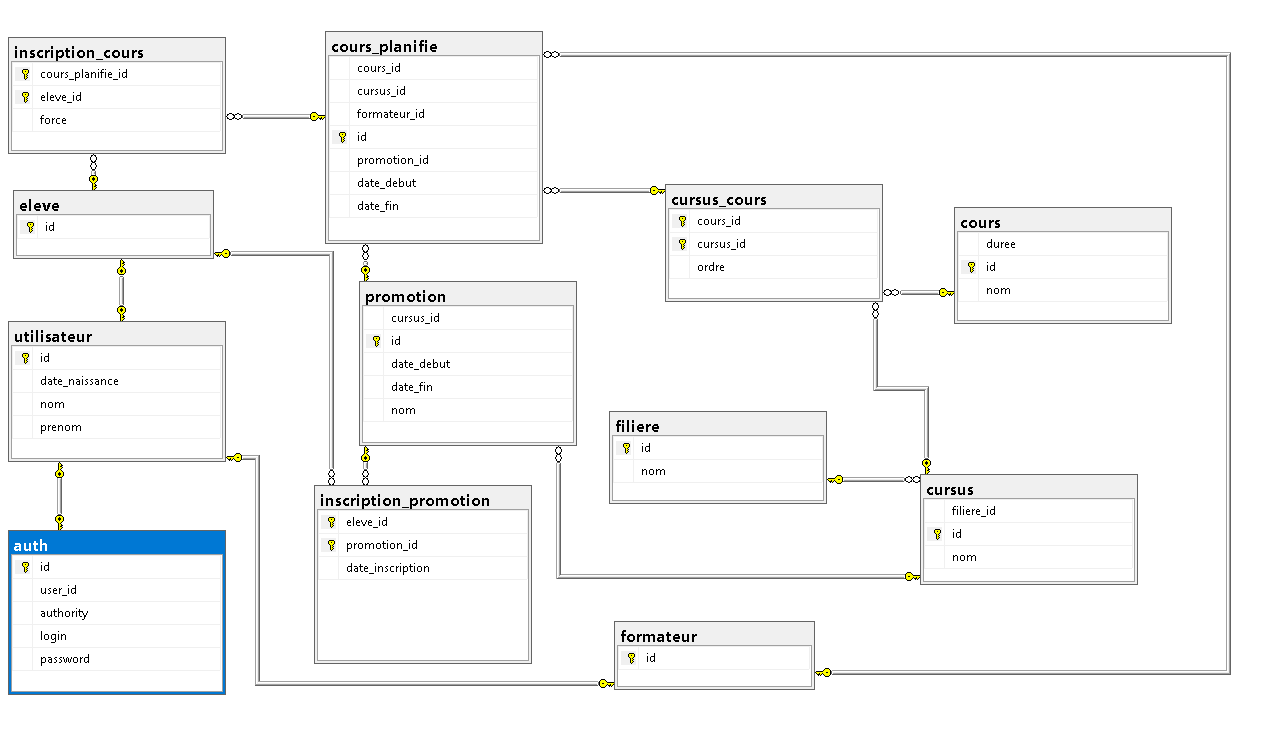
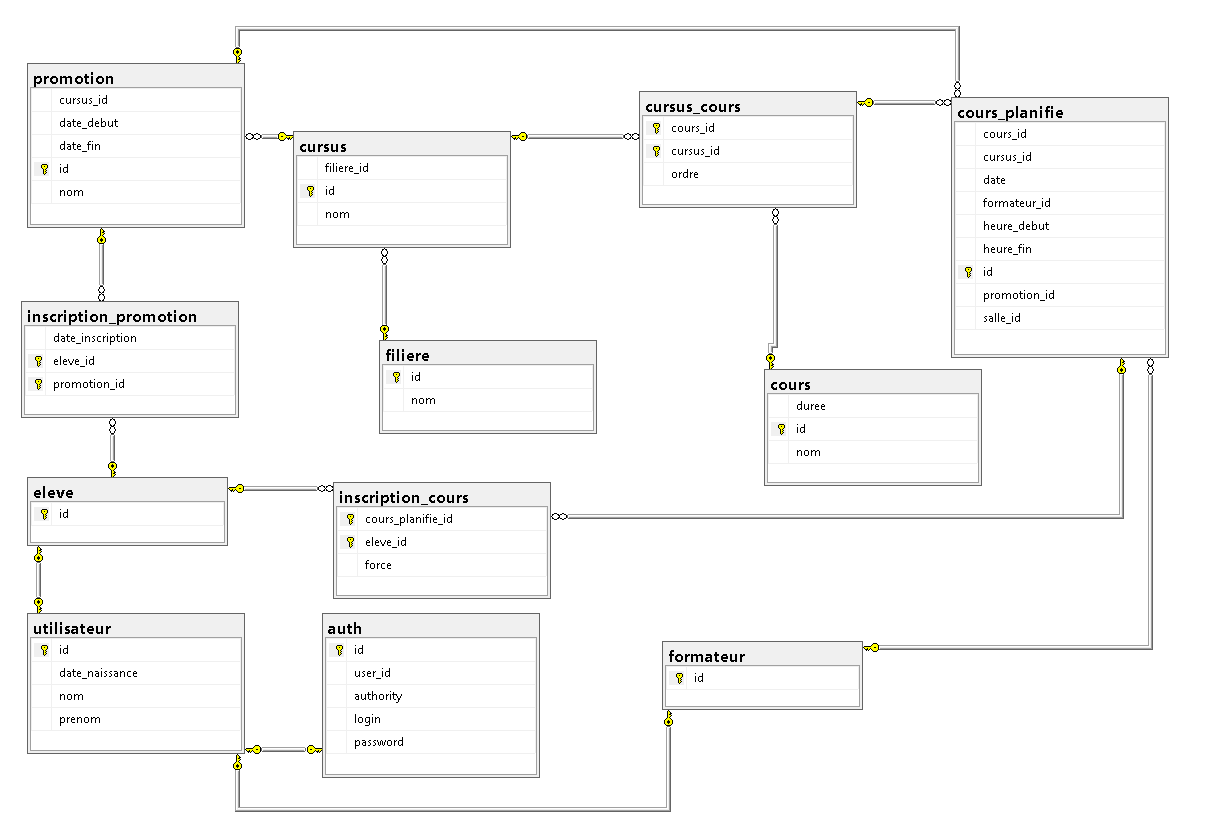
Modif route ath /api/auth/login ajout post filiere, cursus

diff --git a/Backend/classeo/src/main/java/fr/eni/classeo/bll/CursusServiceImpl.java b/Backend/classeo/src/main/java/fr/eni/classeo/bll/CursusServiceImpl.java
@@ -3,6 +3,8 @@ package fr.eni.classeo.bll;
 import fr.eni.classeo.bo.Cursus;
 import fr.eni.classeo.bo.Filiere;
 import fr.eni.classeo.dal.CursusRepository;
+import fr.eni.classeo.dal.FiliereRepository;
+import fr.eni.classeo.dto.CursusPostDto;
 import lombok.AllArgsConstructor;
 import org.springframework.stereotype.Service;
 
@@ -14,6 +16,8 @@ import java.util.Optional;
 public class CursusServiceImpl implements CursusService {
 
     private CursusRepository cursusRepository;
+
+    private FiliereRepository filiereRepository;
 
     @Override
     public List<Cursus> listeCursus() {
@@ -30,5 +34,26 @@ public class CursusServiceImpl implements CursusService {
             return cursus.get();
         }
         throw new RuntimeException("Aucun cursus ne correspond");
+    }
+
+    @Override
+    public void addCursus(CursusPostDto cursus) {
+        if(cursus == null){
+            throw new RuntimeException("Aucun cursus n'est renseigné'");
+        }
+        if(cursus.getFiliereId() == null){
+            throw new RuntimeException("Filiere n'est pas renseigné'");
+        }
+        Optional<Filiere> filiere = filiereRepository.findById(cursus.getFiliereId());
+
+        if(filiere.isPresent()){
+            Cursus cursusToSave = Cursus.builder()
+                    .nom(cursus.getNom())
+                    .filiere(filiere.get())
+                    .build();
+            cursusRepository.save(cursusToSave);
+        }else{
+            throw new RuntimeException("la filiere n'existe pas");
+        }
     }
 }

diff --git a/Backend/classeo/src/main/java/fr/eni/classeo/controller/CursusController.java b/Backend/classeo/src/main/java/fr/eni/classeo/controller/CursusController.java
@@ -3,13 +3,11 @@ package fr.eni.classeo.controller;
 import fr.eni.classeo.bll.CursusService;
 import fr.eni.classeo.bo.Cursus;
 import fr.eni.classeo.bo.Filiere;
+import fr.eni.classeo.dto.CursusPostDto;
 import lombok.AllArgsConstructor;
 import org.springframework.http.HttpStatus;
 import org.springframework.http.ResponseEntity;
-import org.springframework.web.bind.annotation.GetMapping;
-import org.springframework.web.bind.annotation.PathVariable;
-import org.springframework.web.bind.annotation.RequestMapping;
-import org.springframework.web.bind.annotation.RestController;
+import org.springframework.web.bind.annotation.*;
 
 import java.util.List;
 
@@ -39,6 +37,17 @@ public class CursusController {
             return ResponseEntity.ok(cursus);
         } catch (RuntimeException e) {
             return ResponseEntity.status(HttpStatus.NOT_FOUND).body(e.getMessage());
+        }
+    }
+
+    @PostMapping
+    public ResponseEntity<?> addCursus(@RequestBody CursusPostDto cursus) {
+        try {
+
+            cursusService.addCursus(cursus);
+            return ResponseEntity.ok(cursus);
+        }catch(RuntimeException e) {
+            return ResponseEntity.status(HttpStatus.NOT_ACCEPTABLE).body(e.getMessage());
         }
     }
 }

diff --git a/Backend/classeo/src/main/java/fr/eni/classeo/controller/FiliereController.java b/Backend/classeo/src/main/java/fr/eni/classeo/controller/FiliereController.java
@@ -2,13 +2,11 @@ package fr.eni.classeo.controller;
 
 import fr.eni.classeo.bll.FiliereService;
 import fr.eni.classeo.bo.Filiere;
+import jakarta.validation.Valid;
 import lombok.AllArgsConstructor;
 import org.springframework.http.HttpStatus;
 import org.springframework.http.ResponseEntity;
-import org.springframework.web.bind.annotation.GetMapping;
-import org.springframework.web.bind.annotation.PathVariable;
-import org.springframework.web.bind.annotation.RequestMapping;
-import org.springframework.web.bind.annotation.RestController;
+import org.springframework.web.bind.annotation.*;
 
 import java.util.List;
 
@@ -38,6 +36,16 @@ public class FiliereController {
             return ResponseEntity.ok(filiere);
         } catch (RuntimeException e) {
             return ResponseEntity.status(HttpStatus.NOT_FOUND).body(e.getMessage());
+        }
+    }
+
+    @PostMapping
+    public ResponseEntity<?> addFiliere(@Valid @RequestBody Filiere filiere){
+        try {
+            filiereService.addFiliere(filiere);
+            return ResponseEntity.ok(filiere);
+        }catch (RuntimeException e){
+            return ResponseEntity.status(HttpStatus.NOT_ACCEPTABLE).body(e.getMessage());
         }
     }
 }

diff --git a/Backend/classeo/src/test/java/fr/eni/classeo/association/TestManyToOneCoursPlanifie.java b/Backend/classeo/src/test/java/fr/eni/classeo/association/TestManyToOneCoursPlanifie.java
@@ -32,11 +32,10 @@ public class TestManyToOneCoursPlanifie {
 
         //Formateur
        formateur = Formateur.builder()
-                .login("gg@mail.com")
-                .password("Pass")
+
                 .nom("Magax")
                 .prenom("Gerard")
-                .authority("FORMATEUR")
+
                 .build();
         testEntityManager.persist(formateur);
 
@@ -88,7 +87,7 @@ public class TestManyToOneCoursPlanifie {
         CoursPlanifie result = coursPlanifieRepository.findById(cpDb.getId()).orElseThrow();
 
         assertThat(result.getFormateur()).isNotNull();
-        assertThat(result.getFormateur().getLogin()).isEqualTo("gg@mail.com");
+        assertThat(result.getFormateur().getNom()).isEqualTo("Magax");
         assertThat(result.getPromotion()).isNotNull();
         assertThat(result.getPromotion().getNom()).isEqualTo("Mai26");
         assertThat(result.getCursusCours()).isNotNull();

diff --git a/Backend/classeo/src/main/java/fr/eni/classeo/controller/CoursController.java b/Backend/classeo/src/main/java/fr/eni/classeo/controller/CoursController.java
@@ -5,10 +5,7 @@ import fr.eni.classeo.bo.Cours;
 import lombok.AllArgsConstructor;
 import org.springframework.http.HttpStatus;
 import org.springframework.http.ResponseEntity;
-import org.springframework.web.bind.annotation.GetMapping;
-import org.springframework.web.bind.annotation.PathVariable;
-import org.springframework.web.bind.annotation.RequestMapping;
-import org.springframework.web.bind.annotation.RestController;
+import org.springframework.web.bind.annotation.*;
 
 @AllArgsConstructor
 @RestController
@@ -39,4 +36,6 @@ public class CoursController {
     public ResponseEntity<?> getSeancesByCoursId(@PathVariable Integer coursId){
         return ResponseEntity.ok(coursService.listeCoursPlanifieParCoursId(coursId));
     }
+
+
 }

diff --git a/Backend/classeo/src/main/java/fr/eni/classeo/security/SecurityConfig.java b/Backend/classeo/src/main/java/fr/eni/classeo/security/SecurityConfig.java
@@ -1,5 +1,6 @@
 package fr.eni.classeo.security;
 
+import fr.eni.classeo.service.CustomUserDetailsService;
 import org.springframework.context.annotation.Bean;
 import org.springframework.context.annotation.Configuration;
 import org.springframework.security.authentication.AuthenticationManager;
@@ -52,7 +53,7 @@ public class SecurityConfig {
         http
                 .csrf(csrf -> csrf.disable())
                 .authorizeHttpRequests(auth -> auth
-                        .requestMatchers("/auth/**").permitAll()
+                        .requestMatchers("/api/auth/**").permitAll()
                         .anyRequest().authenticated()
                 )
                 .addFilterBefore(

diff --git a/Backend/classeo/src/main/java/fr/eni/classeo/security/JwtAuthenticationFilter.java b/Backend/classeo/src/main/java/fr/eni/classeo/security/JwtAuthenticationFilter.java
@@ -1,5 +1,6 @@
 package fr.eni.classeo.security;
 
+import fr.eni.classeo.service.CustomUserDetailsService;
 import jakarta.servlet.FilterChain;
 import jakarta.servlet.ServletException;
 import jakarta.servlet.http.HttpServletRequest;
@@ -10,6 +11,7 @@ import org.springframework.security.core.userdetails.UserDetails;
 import org.springframework.security.web.authentication.WebAuthenticationDetailsSource;
 import org.springframework.stereotype.Component;
 import org.springframework.web.filter.OncePerRequestFilter;
+
 
 import java.io.IOException;
 

diff --git a/Backend/classeo/src/main/java/fr/eni/classeo/bll/FiliereServiceImpl.java b/Backend/classeo/src/main/java/fr/eni/classeo/bll/FiliereServiceImpl.java
@@ -30,4 +30,16 @@ public class FiliereServiceImpl implements FiliereService {
         }
         throw new RuntimeException("Aucune filiere ne correspond");
     }
+
+    @Override
+    public void addFiliere(Filiere filiere) {
+        if(filiere == null){
+            throw new RuntimeException("Filiere n'est pas renseignée'");
+        }
+        try {
+            filiereRepository.save(filiere);
+        }catch(RuntimeException e){
+            throw  new RuntimeException("impossible de sauver"+ filiere.toString());
+        }
+    }
 }

diff --git a/Backend/classeo/src/main/java/fr/eni/classeo/dto/CursusPostDto.java b/Backend/classeo/src/main/java/fr/eni/classeo/dto/CursusPostDto.java
@@ -1,0 +1,19 @@
+package fr.eni.classeo.dto;
+
+import jakarta.validation.constraints.NotBlank;
+import jakarta.validation.constraints.NotNull;
+import jakarta.validation.constraints.Size;
+import lombok.AllArgsConstructor;
+import lombok.Data;
+
+@Data
+@AllArgsConstructor
+public class CursusPostDto {
+
+    @NotBlank(message = "Le nom est obligatoire")
+    @Size(max = 250, message = "max 250")
+    private String nom;
+
+    @NotNull(message = "La filière est obligatoire")
+    private Integer filiereId;
+}

diff --git a/Backend/classeo/src/main/java/fr/eni/classeo/dto/EmploiDuTempsDto.java b/Backend/classeo/src/main/java/fr/eni/classeo/dto/EmploiDuTempsDto.java
@@ -1,0 +1,21 @@
+package fr.eni.classeo.dto;
+
+import lombok.AllArgsConstructor;
+import lombok.Data;
+
+import java.time.LocalDate;
+import java.time.LocalTime;
+
+@Data
+@AllArgsConstructor
+public class EmploiDuTempsDto {
+
+    private Integer id;
+    private Integer coursId;
+    private LocalDate date;
+    private LocalTime heureDebut;
+    private LocalTime heureFin;
+    private String salle;
+    private String nomFormateur;
+    private String prenomFormateur;
+}

diff --git a/Backend/classeo/src/main/java/fr/eni/classeo/dto/PromotionPostDto.java b/Backend/classeo/src/main/java/fr/eni/classeo/dto/PromotionPostDto.java
@@ -1,0 +1,26 @@
+package fr.eni.classeo.dto;
+
+import jakarta.validation.constraints.NotNull;
+import lombok.AllArgsConstructor;
+import lombok.Data;
+
+import java.time.LocalDate;
+
+@Data
+@AllArgsConstructor
+public class PromotionPostDto {
+
+    @NotNull
+    private LocalDate dateDebut;
+
+    @NotNull
+    private LocalDate dateFin;
+
+    @NotNull
+    private String nom;
+
+    @NotNull
+    private Integer filiereId;
+
+    private Integer cursusId;
+}

diff --git a/Backend/classeo/src/main/java/fr/eni/classeo/bo/Filiere.java b/Backend/classeo/src/main/java/fr/eni/classeo/bo/Filiere.java
@@ -1,6 +1,7 @@
 package fr.eni.classeo.bo;
 
 import jakarta.persistence.*;
+import jakarta.validation.constraints.NotBlank;
 import jakarta.validation.constraints.Size;
 import lombok.AllArgsConstructor;
 import lombok.Builder;
@@ -20,5 +21,6 @@ public class Filiere {
 
     @Column(length = 250, nullable = false)
     @Size(max = 250, message = "max 250")
+    @NotBlank
     private String nom;
 }
